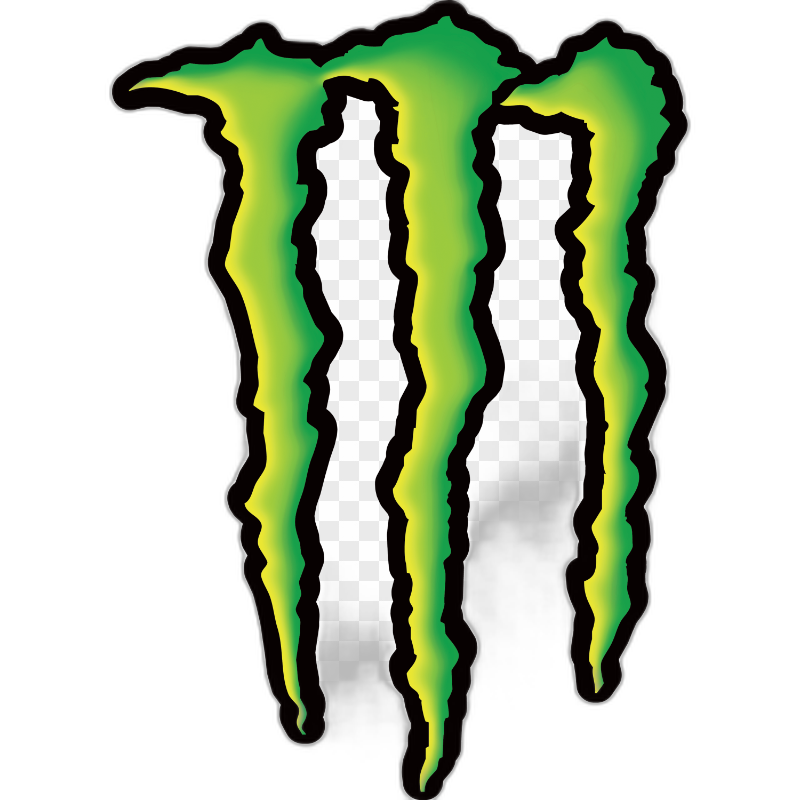
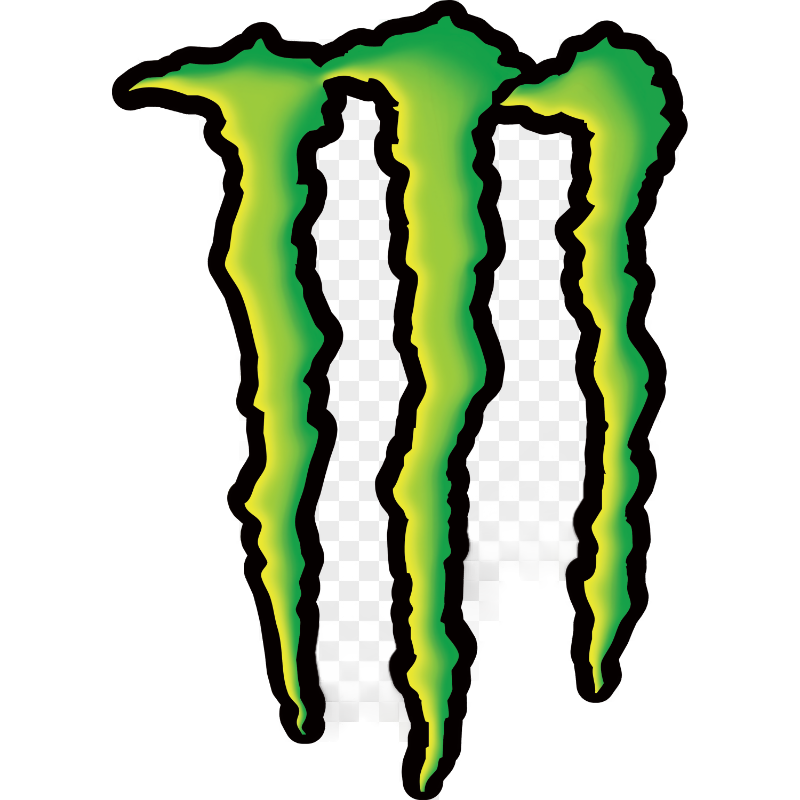
Rewrite refunds/shipping policies, fix contact email, remove company number
- Refunds page: no refunds except faulty/missing items, 48hr claim window
- Shipping page: 3-5 working day delivery policy, full write-up
- Footer: remove placeholder company number line
- Site-wide: correct contact email to hottestdealsukwebsite@gmail.com
  (contact, terms, refunds, shipping, privacy pages + chat widget fallback)
- Monster logo: reprocessed with alpha matting to remove grey haze
- Add Lucky Charms official logo (background removed)

diff --git a/app/refunds/page.tsx b/app/refunds/page.tsx
@@ -11,24 +11,88 @@ export default function RefundsPage() {
       <h1 className="text-h2 sm:text-display font-semibold tracking-[-0.02em] text-text">
         Refund policy
       </h1>
-      <div className="mt-6 rounded-[var(--radius)] border border-grey-line bg-white p-6 text-muted leading-relaxed">
-        <p>
-          This page is a placeholder. Our full refund policy hasn&apos;t
-          been written yet — we&apos;d rather leave this honest than invent
-          return windows or conditions that aren&apos;t true.
-        </p>
-        <p className="mt-3">
-          Every order today is placed through eBay, TikTok Shop or Whatnot,
-          so each platform&apos;s own refund/return process applies. If
-          something&apos;s wrong with your order, email{" "}
-          <a
-            href="mailto:hello@hottestdealsuk.co.uk"
-            className="font-medium text-blue hover:text-navy transition-colors"
-          >
-            hello@hottestdealsuk.co.uk
-          </a>{" "}
-          and we&apos;ll sort it.
-        </p>
+      <p className="mt-2 text-sm text-muted">Last updated: 17 August 2026</p>
+
+      <div className="mt-8 space-y-8 text-muted leading-relaxed">
+        <section>
+          <h2 className="text-h3 font-semibold text-text mb-2">Our approach</h2>
+          <p>
+            We import a lot of the stock we sell — American candy, Asian
+            treats, European chocolate — in small, limited batches, and once
+            it&apos;s gone, it&apos;s often gone for good. Because of that, we
+            don&apos;t offer refunds or exchanges simply for a change of
+            mind. What we do promise is that every order arrives complete
+            and in the condition it should be — and if it doesn&apos;t,
+            we&apos;ll put it right.
+          </p>
+        </section>
+
+        <section>
+          <h2 className="text-h3 font-semibold text-text mb-2">
+            When you&apos;re covered
+          </h2>
+          <p>We&apos;ll offer a replacement or a refund if:</p>
+          <ul className="mt-3 space-y-2 list-disc pl-5">
+            <li>
+              <strong className="text-text">Your item arrives faulty or damaged</strong> —
+              for example, packaging that&apos;s split or crushed in
+              transit, or a product that isn&apos;t in a sellable, edible
+              condition.
+            </li>
+            <li>
+              <strong className="text-text">Something&apos;s missing from your order</strong> —
+              you&apos;re short an item you paid for, or the wrong product
+              turned up instead.
+            </li>
+          </ul>
+          <p className="mt-3">
+            In either case, get in touch within 48 hours of delivery with
+            your order number and a photo of the item (and the packaging,
+            if it&apos;s a damage claim) — this is the quickest way for us
+            to sort a replacement or refund without back-and-forth.
+          </p>
+        </section>
+
+        <section>
+          <h2 className="text-h3 font-semibold text-text mb-2">
+            What isn&apos;t covered
+          </h2>
+          <p>
+            Because of the nature of imported, limited-run confectionery, we
+            can&apos;t accept returns or offer refunds for change of mind,
+            for products bought in error, or once an item has been opened —
+            unless it falls under the faulty or missing cases above.
+          </p>
+        </section>
+
+        <section>
+          <h2 className="text-h3 font-semibold text-text mb-2">
+            Ordering through eBay, TikTok Shop or Whatnot
+          </h2>
+          <p>
+            Right now, every order is placed and paid for through one of
+            our sales channels — eBay, TikTok Shop or Whatnot — rather than
+            checkout on this site. Alongside the policy above, each
+            platform has its own buyer protection and dispute process,
+            which still applies to your order and gives you an extra layer
+            of cover.
+          </p>
+        </section>
+
+        <section>
+          <h2 className="text-h3 font-semibold text-text mb-2">Get in touch</h2>
+          <p>
+            If anything about your order isn&apos;t right, email{" "}
+            <a
+              href="mailto:hottestdealsukwebsite@gmail.com"
+              className="font-medium text-blue hover:text-navy transition-colors"
+            >
+              hottestdealsukwebsite@gmail.com
+            </a>{" "}
+            with your order number and we&apos;ll get it sorted as quickly
+            as we can.
+          </p>
+        </section>
       </div>
     </div>
   );

diff --git a/app/shipping/page.tsx b/app/shipping/page.tsx
@@ -11,24 +11,66 @@ export default function ShippingPage() {
       <h1 className="text-h2 sm:text-display font-semibold tracking-[-0.02em] text-text">
         Shipping policy
       </h1>
-      <div className="mt-6 rounded-[var(--radius)] border border-grey-line bg-white p-6 text-muted leading-relaxed">
-        <p>
-          This page is a placeholder. Our full shipping policy hasn&apos;t
-          been written yet — we&apos;d rather leave this honest than invent
-          delivery times or costs that aren&apos;t true.
-        </p>
-        <p className="mt-3">
-          Every order today is placed and shipped through eBay, TikTok Shop
-          or Whatnot, so each platform&apos;s own shipping information
-          applies at checkout. Questions? Email{" "}
-          <a
-            href="mailto:hello@hottestdealsuk.co.uk"
-            className="font-medium text-blue hover:text-navy transition-colors"
-          >
-            hello@hottestdealsuk.co.uk
-          </a>
-          .
-        </p>
+      <p className="mt-2 text-sm text-muted">Last updated: 17 August 2026</p>
+
+      <div className="mt-8 space-y-8 text-muted leading-relaxed">
+        <section>
+          <h2 className="text-h3 font-semibold text-text mb-2">
+            Delivery times
+          </h2>
+          <p>
+            Orders are shipped from our UK base and arrive within{" "}
+            <strong className="text-text">3–5 working days</strong> of being
+            placed. We pack every order carefully to make sure your treats
+            turn up in the same condition they left us in, whatever&apos;s
+            inside the box.
+          </p>
+        </section>
+
+        <section>
+          <h2 className="text-h3 font-semibold text-text mb-2">
+            Processing your order
+          </h2>
+          <p>
+            Orders are picked and packed by hand, usually within a day or
+            two of purchase, before they&apos;re handed to our courier. The
+            3–5 working day estimate covers the full journey from the
+            moment you order to the moment it lands on your doorstep.
+          </p>
+        </section>
+
+        <section>
+          <h2 className="text-h3 font-semibold text-text mb-2">
+            Ordering through eBay, TikTok Shop or Whatnot
+          </h2>
+          <p>
+            Every order today is placed and shipped through one of our
+            sales channels — eBay, TikTok Shop or Whatnot — rather than
+            checkout on this site. Delivery estimates and tracking are
+            provided through whichever platform you order from, alongside
+            the timeframe above.
+          </p>
+        </section>
+
+        <section>
+          <h2 className="text-h3 font-semibold text-text mb-2">
+            Delays and questions
+          </h2>
+          <p>
+            Courier delays do happen from time to time, especially around
+            busy periods, and we&apos;ll always do what we can to help if
+            your order is taking longer than expected. If it&apos;s been
+            longer than 5 working days and you haven&apos;t heard anything,
+            email{" "}
+            <a
+              href="mailto:hottestdealsukwebsite@gmail.com"
+              className="font-medium text-blue hover:text-navy transition-colors"
+            >
+              hottestdealsukwebsite@gmail.com
+            </a>{" "}
+            with your order number and we&apos;ll chase it up for you.
+          </p>
+        </section>
       </div>
     </div>
   );

diff --git a/app/contact/page.tsx b/app/contact/page.tsx
@@ -23,11 +23,11 @@ export default function ContactPage() {
 
       <div className="mt-8 grid gap-4 sm:grid-cols-2">
         <a
-          href="mailto:hello@hottestdealsuk.co.uk"
+          href="mailto:hottestdealsukwebsite@gmail.com"
           className="rounded-[var(--radius)] border border-grey-line bg-white p-6 hover:border-navy transition-colors duration-150"
         >
           <p className="text-lg font-semibold text-text">Email</p>
-          <p className="mt-1 font-medium text-blue">hello@hottestdealsuk.co.uk</p>
+          <p className="mt-1 font-medium text-blue">hottestdealsukwebsite@gmail.com</p>
         </a>
 
         <div className="rounded-[var(--radius)] border border-grey-line bg-white p-6 flex flex-col gap-3">

diff --git a/app/privacy/page.tsx b/app/privacy/page.tsx
@@ -57,10 +57,10 @@ export default function PrivacyPage() {
             deletion of any personal data we hold about you. To make a
             request, email{" "}
             <a
-              href="mailto:hello@hottestdealsuk.co.uk"
+              href="mailto:hottestdealsukwebsite@gmail.com"
               className="font-medium text-blue hover:text-navy transition-colors"
             >
-              hello@hottestdealsuk.co.uk
+              hottestdealsukwebsite@gmail.com
             </a>
             . If you&apos;re unhappy with how we&apos;ve handled your data,
             you can complain to the UK Information Commissioner&apos;s

diff --git a/components/Footer.tsx b/components/Footer.tsx
@@ -76,10 +76,8 @@ export default function Footer({
       </div>
 
       <div className="border-t border-white/15">
-        <div className="mx-auto max-w-[1280px] px-6 py-5 flex flex-col sm:flex-row items-center justify-between gap-2 text-xs text-white/60">
+        <div className="mx-auto max-w-[1280px] px-6 py-5 text-xs text-white/60">
           <p>© {new Date().getFullYear()} Hottest Deals UK. All rights reserved.</p>
-          {/* TODO: add real company registration number once available — never invent one */}
-          <p>Company number: to be added</p>
         </div>
       </div>
     </footer>

diff --git a/app/terms/page.tsx b/app/terms/page.tsx
@@ -22,10 +22,10 @@ export default function TermsPage() {
           or Whatnot, so each platform&apos;s own terms apply to your order.
           Questions? Email{" "}
           <a
-            href="mailto:hello@hottestdealsuk.co.uk"
+            href="mailto:hottestdealsukwebsite@gmail.com"
             className="font-medium text-blue hover:text-navy transition-colors"
           >
-            hello@hottestdealsuk.co.uk
+            hottestdealsukwebsite@gmail.com
           </a>
           .
         </p>

diff --git a/components/ChatWidget.tsx b/components/ChatWidget.tsx
@@ -14,7 +14,7 @@ const GREETING: ChatMessage = {
 };
 
 const FALLBACK_MESSAGE =
-  "Our chat assistant isn't connected yet — email hello@hottestdealsuk.co.uk or find us on TikTok/Whatnot in the meantime.";
+  "Our chat assistant isn't connected yet — email hottestdealsukwebsite@gmail.com or find us on TikTok/Whatnot in the meantime.";
 
 function CandyIcon() {
   return (
